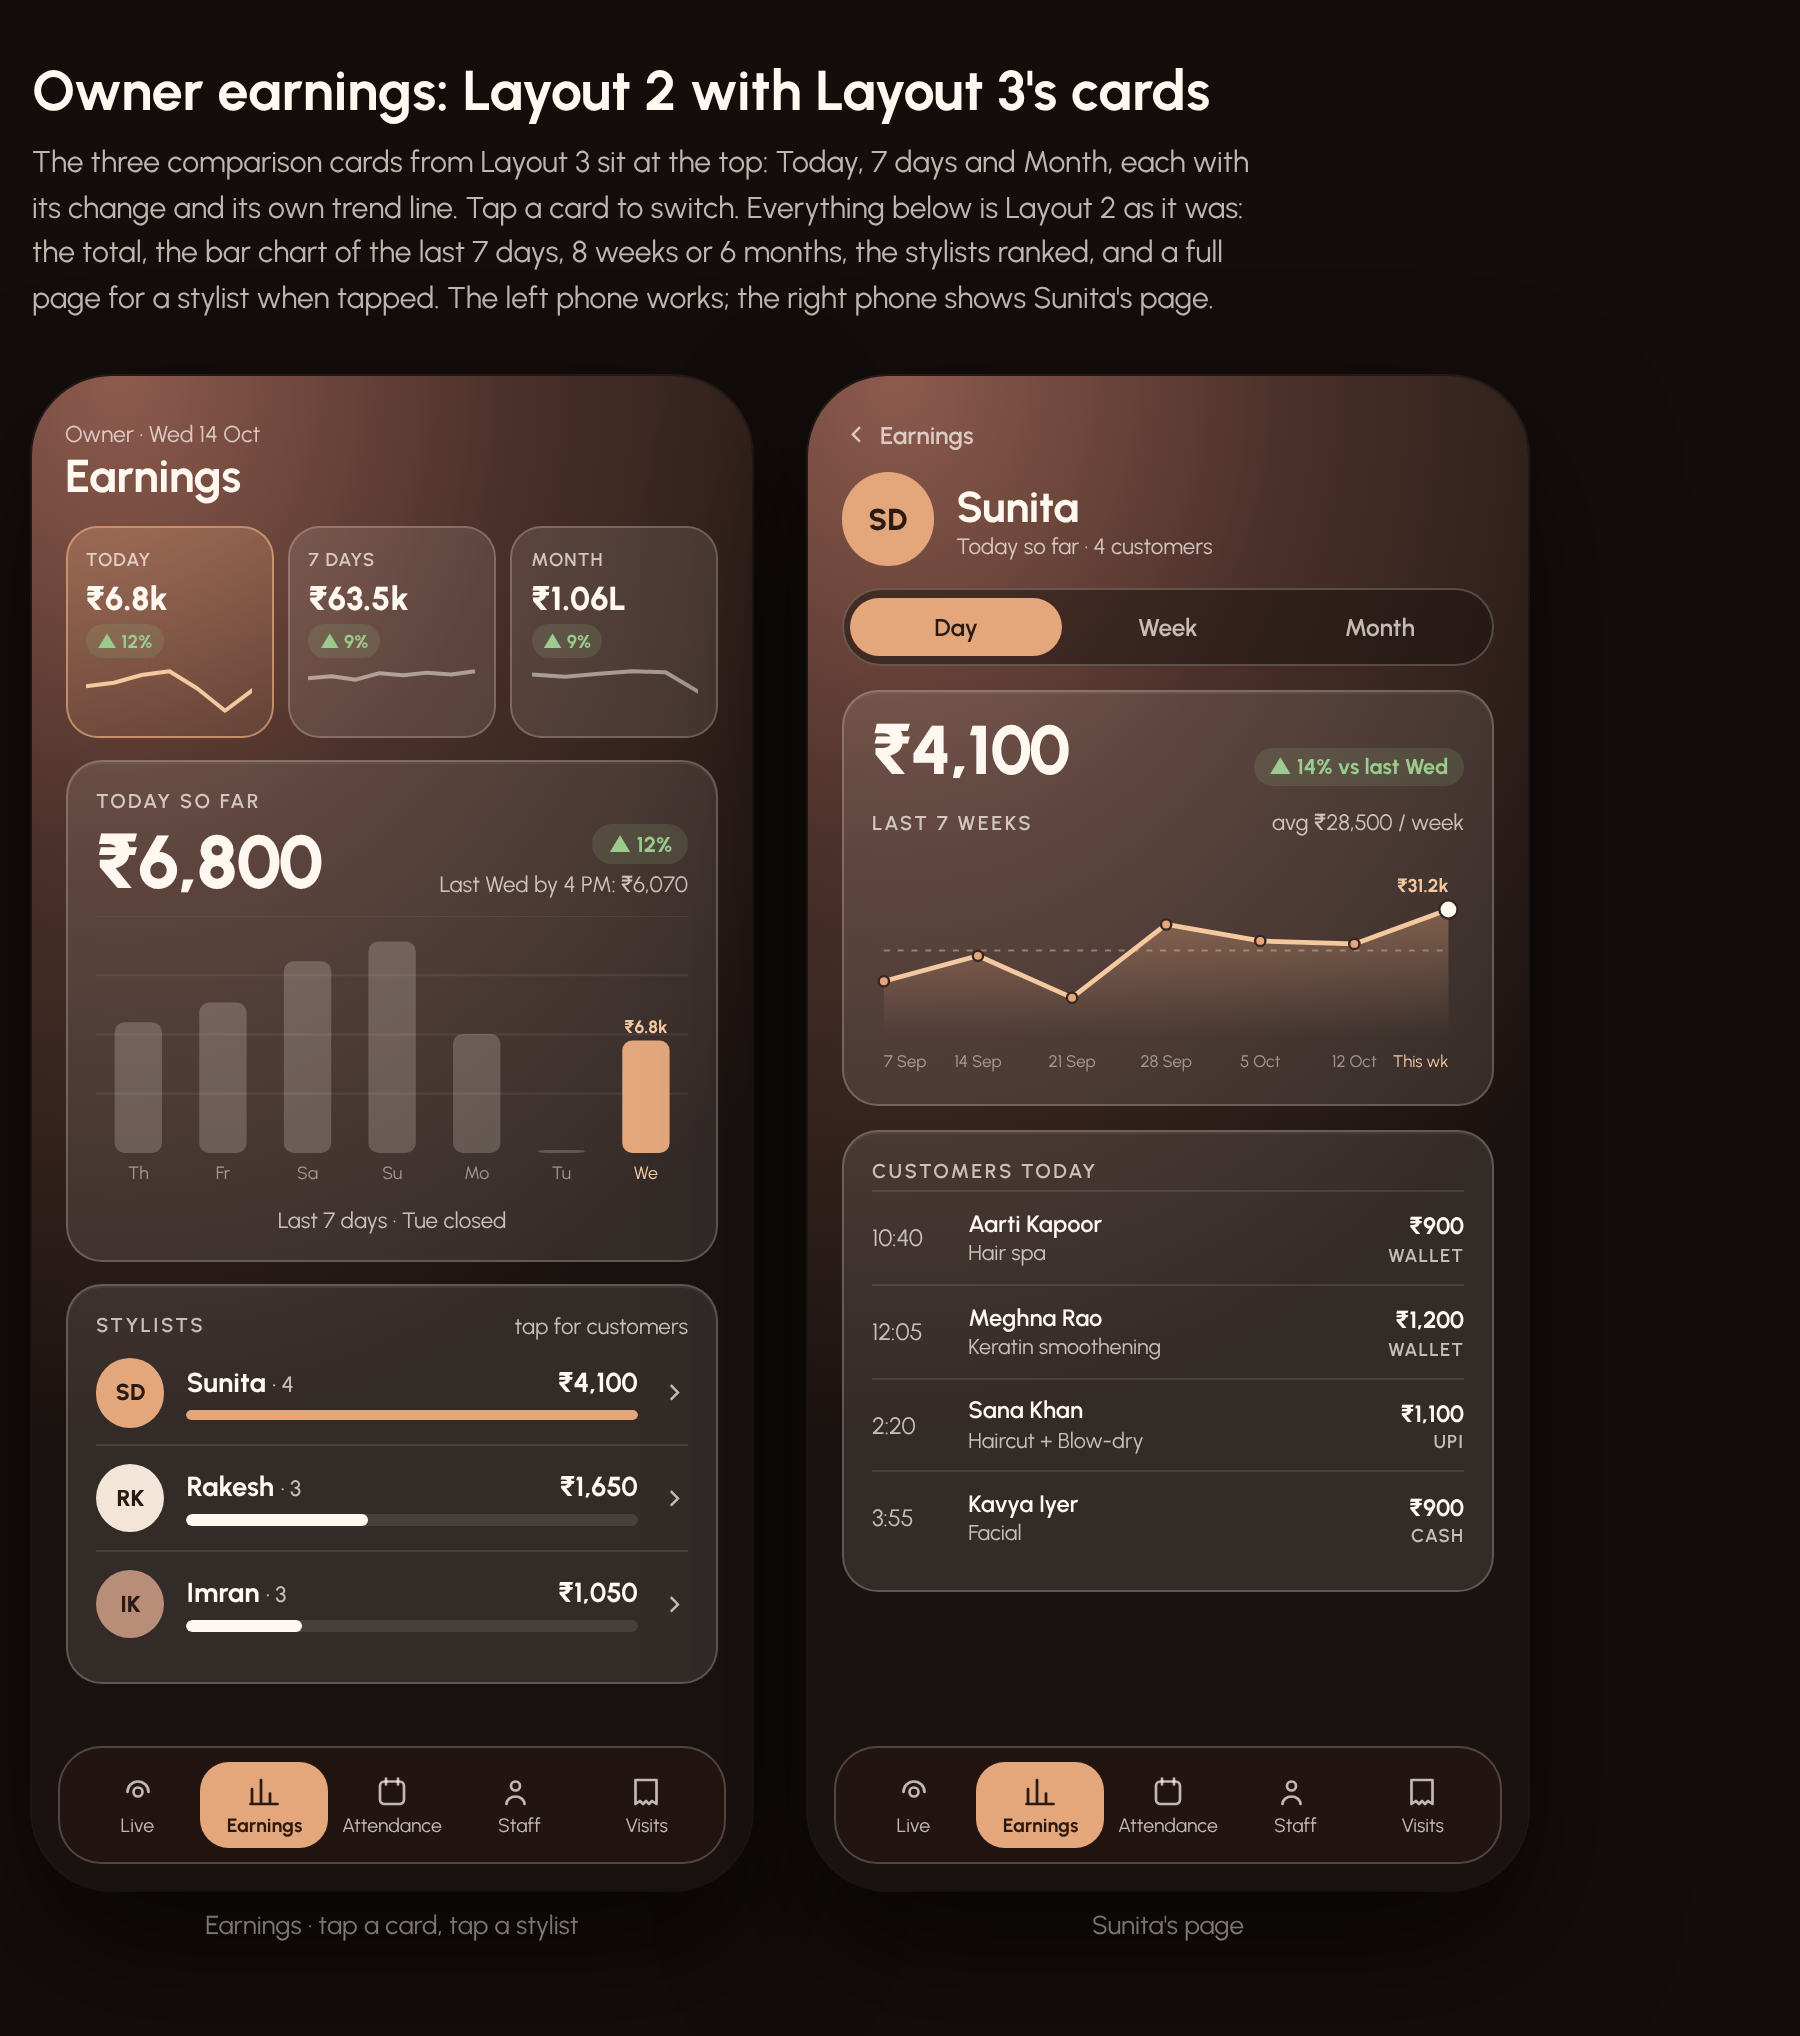
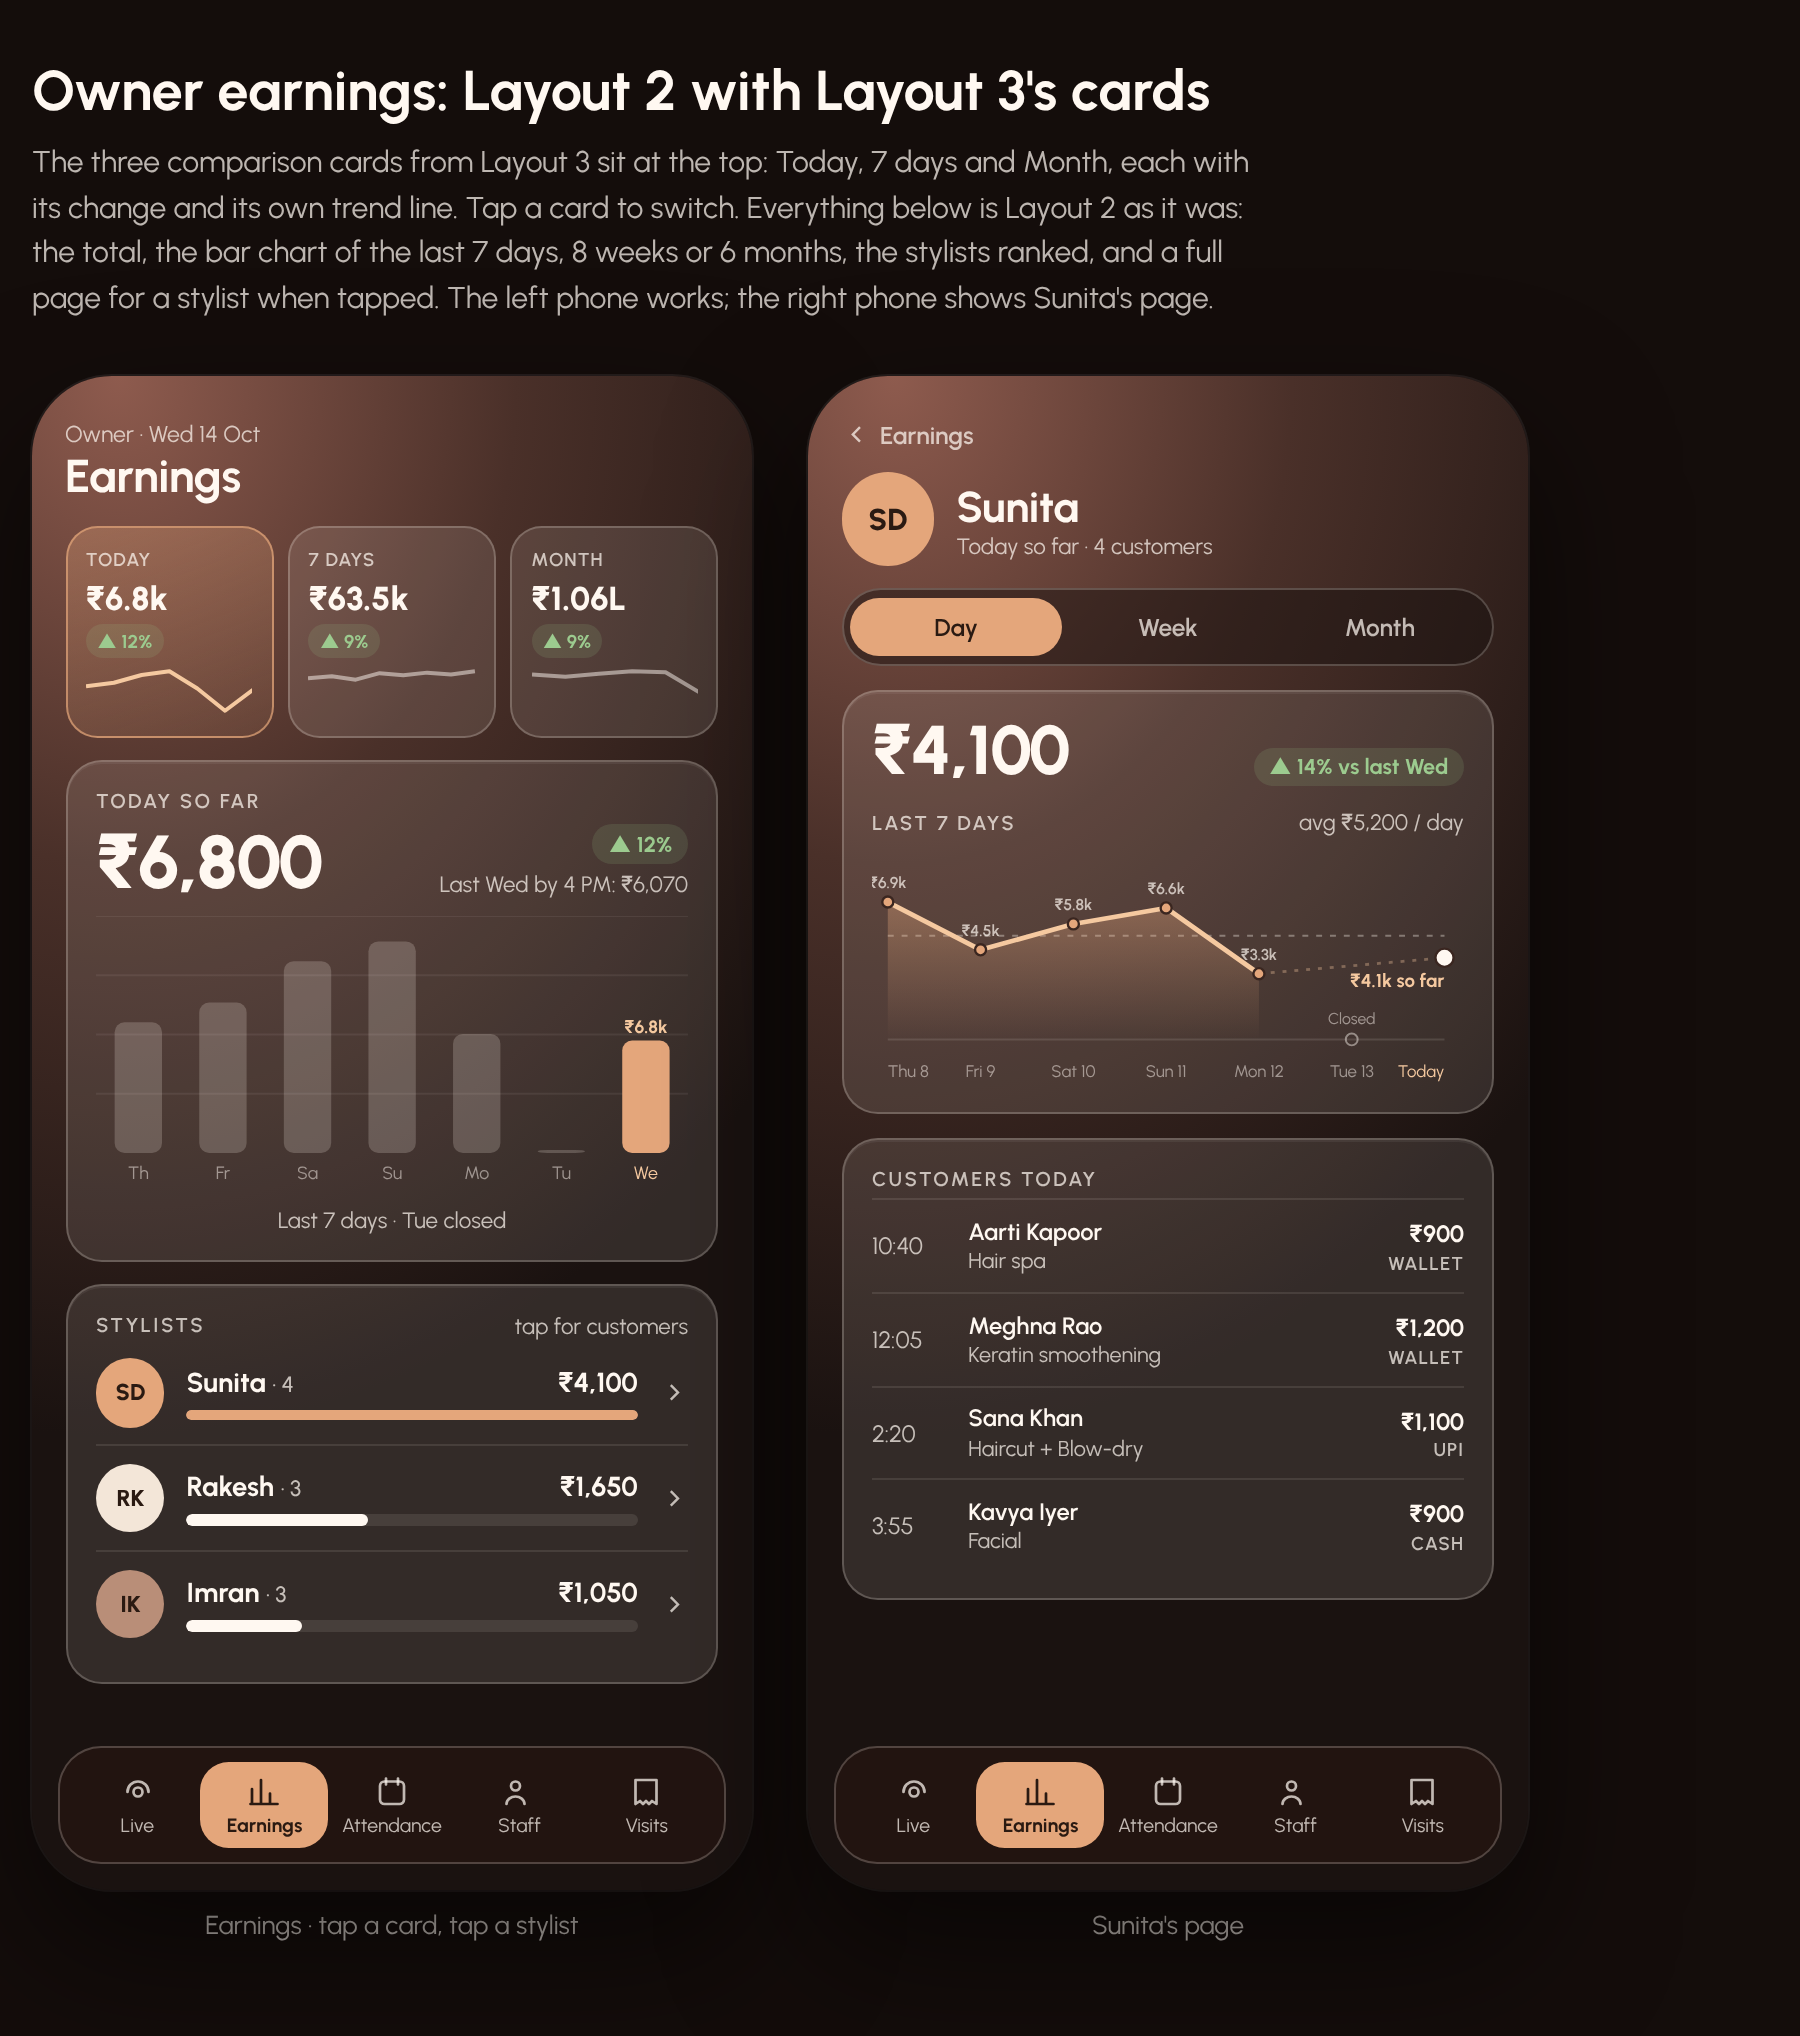
Owner earnings: stylist graph shows each day of the last 7 days
Claude-Session: https://claude.ai/code/session_01BjSSchZsy6gAdMxf188SpF

Changed region(s): [[0.4667, 0.4023, 0.8089, 0.8045], [0.7156, 0.4023, 0.7467, 0.4332]]

diff --git a/salon-mobile/design-studies/owner-earnings-final.html b/salon-mobile/design-studies/owner-earnings-final.html
@@ -135,6 +135,7 @@ const MONTHWEEKS=[['8–14 Oct',.6],['1–7 Oct',.4]];
 function rows(pk,sid){
   if(pk==='day') return {kind:'cust',list:TODAY[sid]};
   const [c,e]=P[pk].staff[sid], parts=pk==='week'?WEEKDAYS:MONTHWEEKS;
+  if(pk==='week'){const amt=[...DAYS[sid]].reverse();return {kind:'sum',list:parts.map(([d,w],k)=>[d,Math.round(c*w),amt[k]||0])};}
   return {kind:'sum',list:parts.map(([d,w])=>[d,Math.round(c*w),Math.round(e*w/50)*50])};
 }
 function detailRows(pk,sid){
@@ -179,26 +180,31 @@ function L1(el,state){
 }
 
 /* ---------- Layout 2: trend chart + full stylist page ---------- */
-// Each stylist's earnings for the last 8 weeks (example data; last point = this week so far)
-const WEEKS={labels:['7 Sep','14 Sep','21 Sep','28 Sep','5 Oct','12 Oct','This wk'],
-  s:[26400,28100,25300,30200,29100,28900,31200], r:[15800,16900,14600,18100,17400,17100,18900], i:[11100,11800,10200,12900,12600,12200,13400]};
+// Each stylist's earnings for each day of the last 7 days (example data; Tue closed; Wed = today so far)
+const DAYS={labels:['Thu 8','Fri 9','Sat 10','Sun 11','Mon 12','Tue 13','Today'],
+  s:[6900,4500,5800,6600,3300,null,4100], r:[3900,2800,3600,4300,2650,null,1650], i:[2700,1900,2600,3050,2100,null,1050]};
 function weekLine(sid){
-  const v=WEEKS[sid], L=WEEKS.labels, n=v.length, W=300, H=118, padL=6, padR=8, top=18, bot=96;
-  const lo=Math.min(...v)*.9, hi=Math.max(...v)*1.06, X=i=>padL+i*(W-padL-padR)/(n-1), Y=x=>bot-(x-lo)/(hi-lo)*(bot-top);
-  const avg=v.reduce((a,b)=>a+b,0)/n, uid='wl'+sid+Math.random().toString(36).slice(2,6);
-  let line='',area='';
-  v.forEach((x,i)=>{const c=`${X(i).toFixed(1)} ${Y(x).toFixed(1)}`;line+=(i?' L':'M')+c;});
-  area=line+` L${X(n-1)} ${bot} L${X(0)} ${bot} Z`;
-  let g=`<div style="display:flex;justify-content:space-between;align-items:baseline;margin-top:3cqw"><span class="lbl">Last 7 weeks</span><span class="sm">avg ${inr(Math.round(avg/100)*100)} / week</span></div>
-  <svg viewBox="0 0 ${W} ${H}" style="width:100%;display:block;margin-top:1.4cqw" role="img" aria-label="Weekly earnings for the last 7 weeks, this week ${inr(v[n-1])}">
+  const v=DAYS[sid], L=DAYS.labels, n=v.length, W=300, H=122, padL=8, padR=10, top=20, bot=98;
+  const open=v.filter(x=>x!==null), hi=Math.max(...open)*1.12, X=i=>padL+i*(W-padL-padR)/(n-1), Y=x=>bot-x/hi*(bot-top);
+  const avg=open.reduce((a,b)=>a+b,0)/open.length, uid='dl'+sid+Math.random().toString(36).slice(2,6);
+  // split into runs so the closed day breaks the line
+  const runs=[];let cur=[];v.forEach((x,i)=>{if(x===null){if(cur.length)runs.push(cur);cur=[];}else cur.push(i);});if(cur.length)runs.push(cur);
+  let g=`<div style="display:flex;justify-content:space-between;align-items:baseline;margin-top:3cqw"><span class="lbl">Last 7 days</span><span class="sm">avg ${inr(Math.round(avg/50)*50)} / day</span></div>
+  <svg viewBox="0 0 ${W} ${H}" style="width:100%;display:block;margin-top:1.4cqw" role="img" aria-label="Daily earnings for the last 7 days, Tuesday closed, today so far ${inr(v[n-1])}">
   <defs><linearGradient id="${uid}" x1="0" y1="0" x2="0" y2="1"><stop offset="0" stop-color="#E4A67B" stop-opacity=".38"/><stop offset="1" stop-color="#E4A67B" stop-opacity="0"/></linearGradient></defs>
-  <line x1="${padL}" x2="${W-padR}" y1="${Y(avg)}" y2="${Y(avg)}" stroke="rgba(255,248,241,.35)" stroke-dasharray="3 4"/>
-  <path d="${area}" fill="url(#${uid})"/>
-  <path d="${line}" fill="none" stroke="#F5C9A0" stroke-width="2.4" stroke-linejoin="round" stroke-linecap="round"/>`;
-  v.forEach((x,i)=>{const last=i===n-1;g+=`<circle cx="${X(i)}" cy="${Y(x)}" r="${last?4.6:2.6}" fill="${last?'#FFF8F1':'#E4A67B'}" stroke="#3a2620" stroke-width="1.2"/>`;
-    g+=`<text x="${X(i)}" y="${H-6}" text-anchor="${i===0?'start':i===n-1?'end':'middle'}" font-size="8.5" fill="${last?'#F5C9A0':'rgba(255,248,241,.5)'}">${L[i]}</text>`;});
-  g+=`<text x="${X(n-1)}" y="${Y(v[n-1])-9}" text-anchor="end" font-size="9.5" font-weight="700" fill="#F5C9A0">${lakh(v[n-1])}</text></svg>`;
-  return g;
+  <line x1="${padL}" x2="${W-padR}" y1="${bot}" y2="${bot}" stroke="rgba(255,244,236,.12)"/>
+  <line x1="${padL}" x2="${W-padR}" y1="${Y(avg)}" y2="${Y(avg)}" stroke="rgba(255,248,241,.35)" stroke-dasharray="3 4"/>`;
+  runs.forEach(r=>{const d=r.map((i,k)=>(k?'L':'M')+X(i).toFixed(1)+' '+Y(v[i]).toFixed(1)).join(' ');
+    if(r.length>1)g+=`<path d="${d} L${X(r[r.length-1])} ${bot} L${X(r[0])} ${bot} Z" fill="url(#${uid})"/>`;
+    g+=`<path d="${d}" fill="none" stroke="#F5C9A0" stroke-width="2.4" stroke-linejoin="round" stroke-linecap="round"/>`;});
+  // dotted bridge across the closed day
+  const ci=v.indexOf(null); if(ci>0&&ci<n-1)g+=`<path d="M${X(ci-1)} ${Y(v[ci-1])} L${X(ci+1)} ${Y(v[ci+1])}" stroke="rgba(245,201,160,.35)" stroke-width="1.4" stroke-dasharray="2 4" fill="none"/>`;
+  v.forEach((x,i)=>{const last=i===n-1;
+    if(x===null){g+=`<circle cx="${X(i)}" cy="${bot}" r="3" fill="none" stroke="rgba(255,248,241,.45)"/><text x="${X(i)}" y="${bot-8}" text-anchor="middle" font-size="8" fill="rgba(255,248,241,.5)">Closed</text>`;}
+    else{g+=`<circle cx="${X(i)}" cy="${Y(x)}" r="${last?4.6:2.8}" fill="${last?'#FFF8F1':'#E4A67B'}" stroke="#3a2620" stroke-width="1.2"/>`;
+      g+=`<text x="${X(i)}" y="${last?Y(x)+15:Y(x)-7}" text-anchor="${last?'end':'middle'}" font-size="${last?9.5:8}" font-weight="${last?700:600}" fill="${last?'#F5C9A0':'rgba(255,248,241,.7)'}">${lakh(x)}${last?' so far':''}</text>`;}
+    g+=`<text x="${X(i)}" y="${H-5}" text-anchor="${i===0?'start':i===n-1?'end':'middle'}" font-size="8.5" fill="${last?'#F5C9A0':'rgba(255,248,241,.5)'}">${L[i]}</text>`;});
+  return g+'</svg>';
 }
 function chartSVG(pk){
   const t=P[pk].trend, n=t.vals.length, max=Math.max(...t.vals)*1.12, W=300,H=120,bw=W/n*.56;

diff --git a/salon-mobile/BUILD-SPEC.md b/salon-mobile/BUILD-SPEC.md
@@ -78,7 +78,7 @@ Where things live:
 |---|---|---|
 | 6.1 | Bottom bar: **Live** · Earnings · Attendance · Staff · Visits | Designed |
 | 6.2 | **Live floor**: Higgsfield clay-3D salon (`design-studies/live-floor/final-live-floor.html`, https://claude.ai/artifact/7ezVmnK7b5bMkiWj6Snj4f). **Receptionist** (Meera) seated at the front desk; **no waiting area** (user, 19 Oct); 3 stylists working; chair labels with progress rings; cards below; "Front desk" status row. Customers walk with **real walk cycles** cut from Higgsfield video clips (frame chosen from distance walked, natural 24 fps pace). Loop ≈41 s: Dev checks in → chair 3 beard trim → pays ₹300 (total ₹6,800→₹7,100) → leaves; Neha wallet top-up (not counted as earnings); Rahul books a haircut for Sat 4:30 PM. Assets and credit log in `higgsfield-assets.md`. 3D/three.js rebuild shelved (`PLAN-3D.md`) | **Approved (19 Oct)** · build into the app as designed |
-| 6.3 | **Earnings** (user, 19 Oct): earnings circle dropped. **Chosen: Layout 2 kept as it is + Layout 3's three comparison cards** (Today / 7 days / Month, each with its change and its own trend line; tap a card to switch period) at the top. Below: total vs previous period, bar chart (last 7 days / 8 weeks / 6 months, current in gold, previous marked), stylists ranked with customers and earnings; **tap a stylist → full page**: their total and change vs before, a **line graph of their last 7 weeks** (dashed weekly average, this week highlighted; user, 19 Oct, replaces the Now/Before bars), Day/Week/Month switch, customers with time, service, amount, payment type (week/month: day-by-day / week-by-week + top services). `design-studies/owner-earnings-final.html` | Designed · awaiting user approval |
+| 6.3 | **Earnings** (user, 19 Oct): earnings circle dropped. **Chosen: Layout 2 kept as it is + Layout 3's three comparison cards** (Today / 7 days / Month, each with its change and its own trend line; tap a card to switch period) at the top. Below: total vs previous period, bar chart (last 7 days / 8 weeks / 6 months, current in gold, previous marked), stylists ranked with customers and earnings; **tap a stylist → full page**: their total and change vs before, a **line graph of each day of the last 7 days** (closed day shown as a gap, dashed daily average, today's point = so far; user, 19 Oct, replaces the Now/Before bars), Day/Week/Month switch, customers with time, service, amount, payment type (week/month: day-by-day / week-by-week + top services). `design-studies/owner-earnings-final.html` | Designed · awaiting user approval |
 | 6.4 | **Attendance**: today's selfies (green on time / orange late), month grid per person, **Excel export (one sheet per day + summary)** with barber-pole progress | Logic · Designed |
 | 6.5 | **Staff**: add (name, mobile, chair, password), reset password, deactivate | Logic · Designed |
 | 6.6 | **Visits**: every visit, **void with reason** (refunds wallet, reverses referral) | Logic · Designed |
